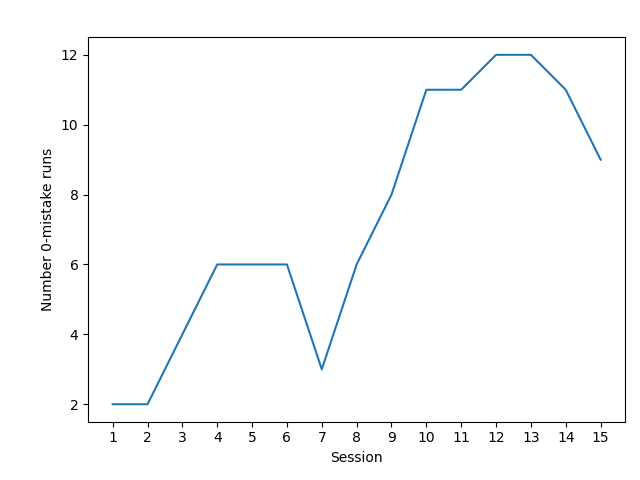
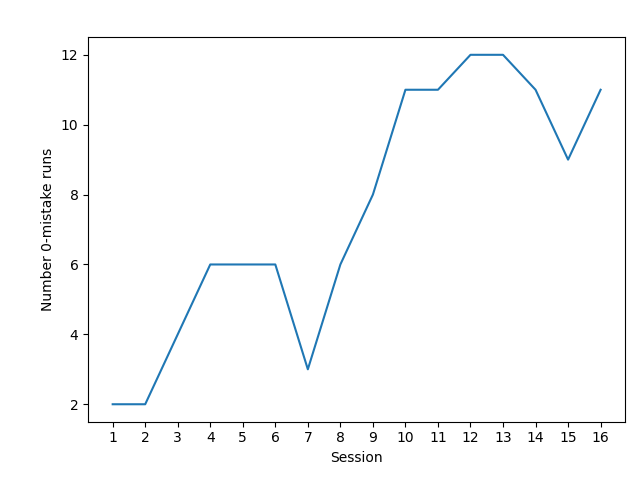
Session 16

diff --git a/analysis/generate_session_data.py b/analysis/generate_session_data.py
@@ -6,7 +6,7 @@ from generate_lm import generate_lm
 from generate_rolling import generate_rolling
 
 
-session_ID = "15"
+session_ID = "16"
 
 localStorage_to_raw(session_ID)
 raw_to_session(session_ID)

diff --git a/analysis/generate_agg_data.py b/analysis/generate_agg_data.py
@@ -103,7 +103,7 @@ def generate_agg_data(sessions):
     print("Aggregate data generated successfully.")
 
 
-upr = 16
+upr = 17
 
 generate_agg_data([str(i) for i in range(1, upr)])
 generate_lm(
